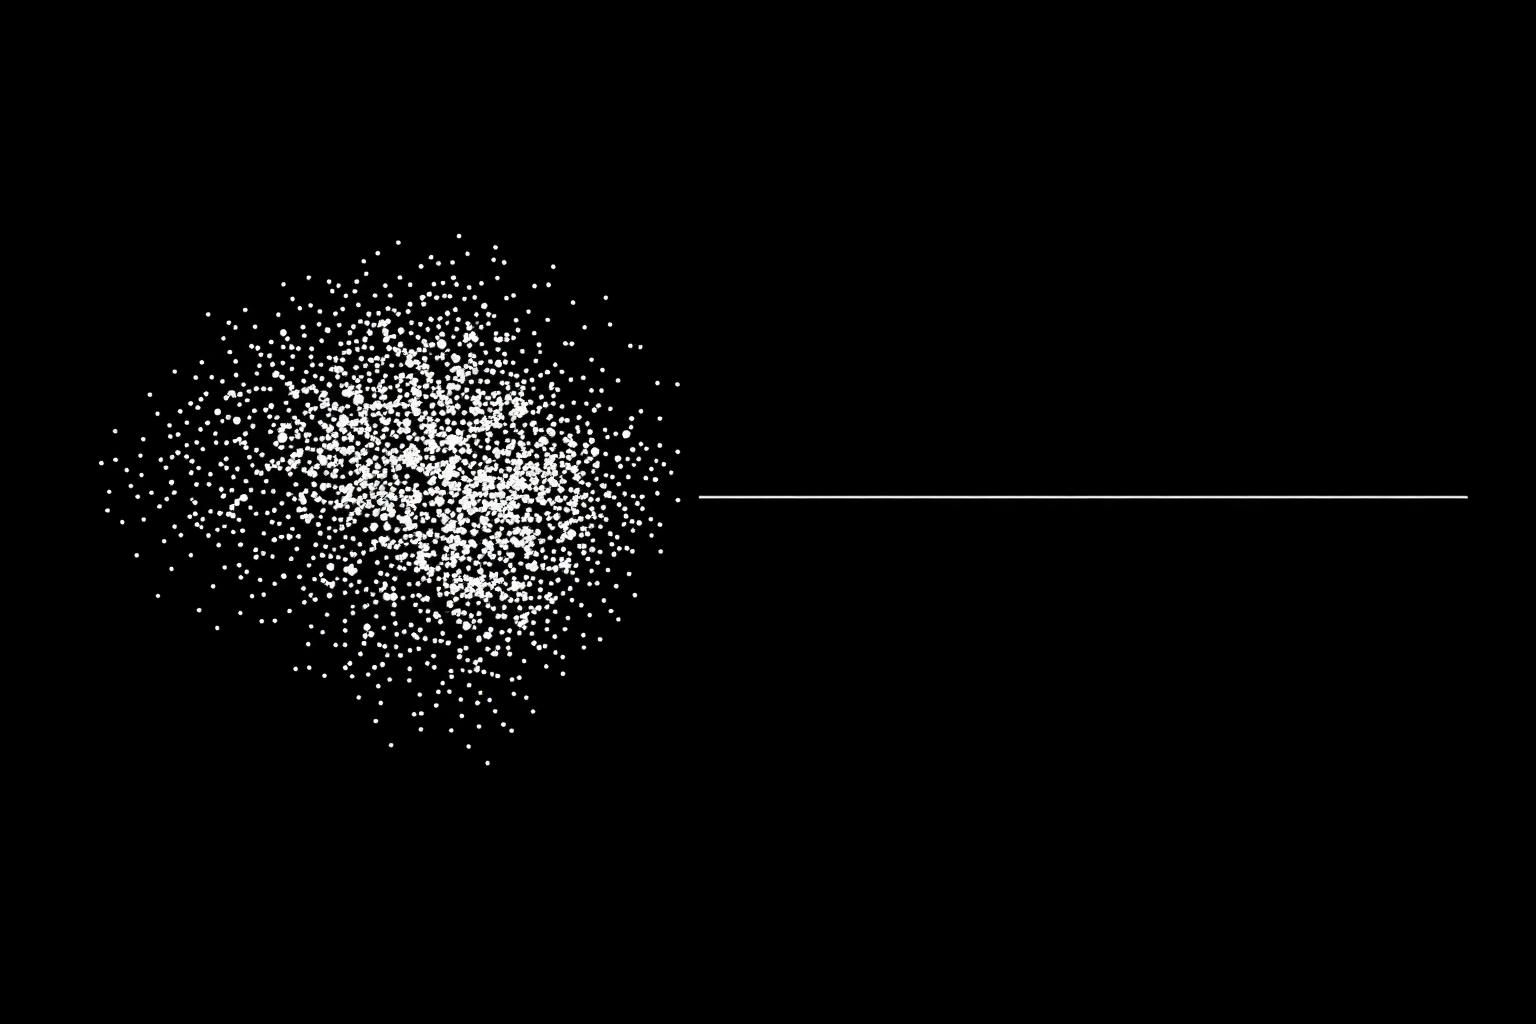
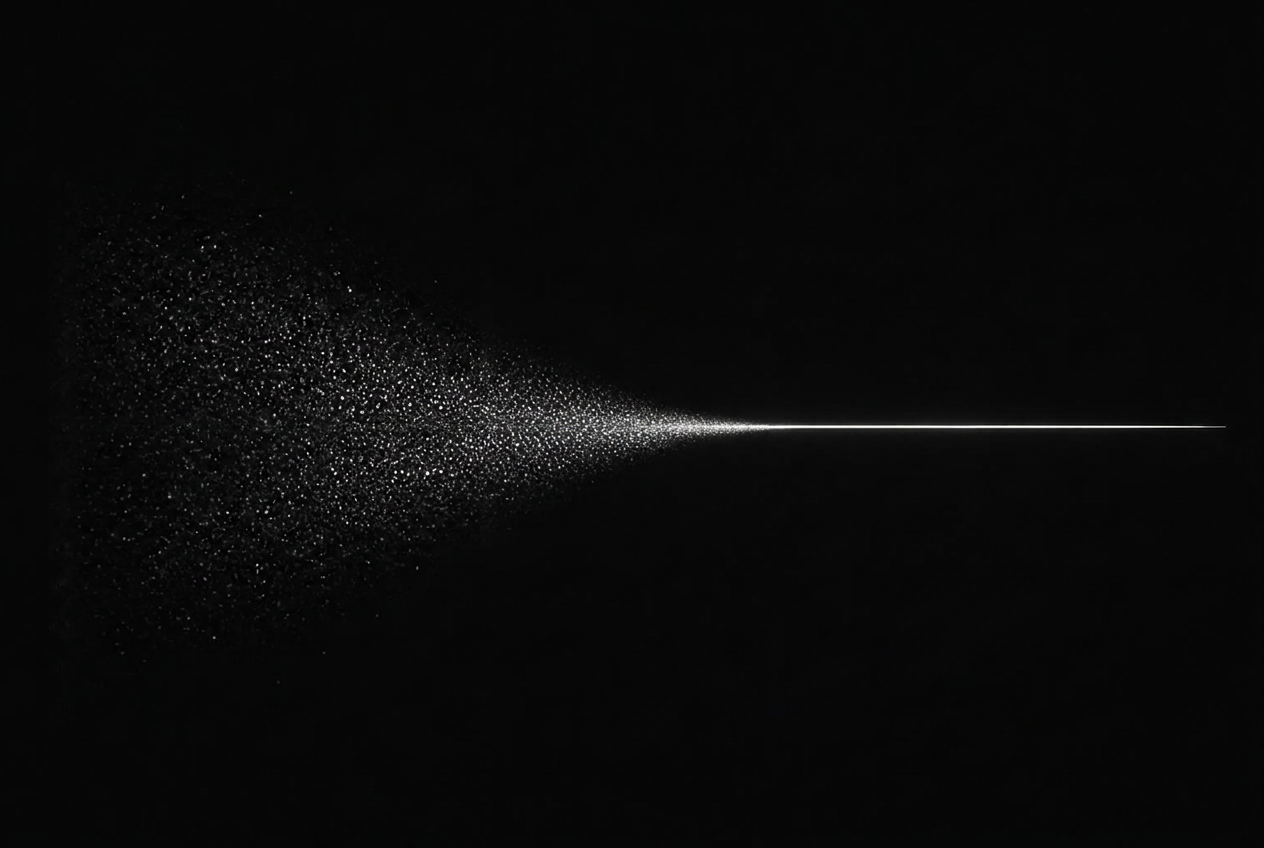
Reverted to commit 2d46d138d043dade0075078fa967075650693767

Changed region(s): [[0.0926, 0.2453, 0.9565, 0.6745]]

diff --git a/src/routes/index.tsx b/src/routes/index.tsx
@@ -4,10 +4,8 @@ import { Wordmark, Starfield, Trajectory } from "@/components/site/brand";
 import { ApproachRail } from "@/components/site/approach-rail";
 import heroField from "@/assets/hero-field.jpg";
 import evidenceResolve from "@/assets/evidence-resolve.jpg";
-import futuresBranch from "@/assets/futures-branch.jpg";
-import killLine from "@/assets/kill-line.jpg";
-import railConverge from "@/assets/rail-converge.jpg";
-
+import futuresCone from "@/assets/futures-cone.jpg";
+import sprintDecision from "@/assets/sprint-decision.jpg";
 
 export const Route = createFileRoute("/")({
   head: () => ({
@@ -201,11 +199,11 @@ function Index() {
             opinion.
           </p>
           <CinematicFigure
-            src={futuresBranch}
-            alt="Abstract diagram: thin lines branching repeatedly from a single point into many endpoints"
+            src={futuresCone}
+            alt="Abstract diagram: a wireframe cone of possible outcomes widening from a single point"
             caption="One idea → many possible futures"
             meta="Uncertainty at the start"
-            phrase="Every idea branches. Building is how most teams find out which branch they were on."
+            phrase="Every roadmap starts as a wide cone of futures. Building is how most teams find out which one they were in."
           >
             <div className="grid gap-14 md:grid-cols-12">
               <div className="md:col-span-6">
@@ -256,38 +254,16 @@ function Index() {
             readable either way. Those stopping points are what we call kill-lines.
           </p>
 
-          <CinematicFigure
-            src={killLine}
-            alt="Abstract chart: a single bright horizontal line with a dense cluster of points below it and a few isolated points above"
-            caption="Set before the evidence arrives"
-            meta="Kill-lines"
-            phrase="A kill-line is a threshold you agree on before you look, so the result is readable either way."
-          />
-
-          <div className="relative">
-            <img
-              src={railConverge}
-              alt=""
-              aria-hidden="true"
-              loading="lazy"
-              width={1920}
-              height={640}
-              className="pointer-events-none absolute inset-x-0 top-1/2 -translate-y-1/2 w-full opacity-[0.14]"
-            />
-            <div className="relative">
-              <ApproachRail steps={steps} />
-            </div>
-          </div>
+          <ApproachRail steps={steps} />
 
           <CinematicFigure
             src={evidenceResolve}
-            alt="Abstract diagram: a dense scatter of points on the left resolving into a single clean line on the right"
+            alt="Abstract diagram: scattered noise on the left resolving into a single clean signal line on the right"
             caption="Noise → signal"
-            meta="Evidence, not opinion"
-            phrase="Most of what a team believes is noise. The work is resolving the little of it that is signal."
+            meta="Evidence synthesis"
+            phrase="Name what must be true, then test it until the noise resolves into one line."
           />
         </Section>
-
 
 
 
@@ -297,8 +273,13 @@ function Index() {
             A fixed-scope sprint that ends in a call.
           </h2>
 
-          <div>
-
+          <CinematicFigure
+            src={sprintDecision}
+            alt="Abstract diagram: four converging rails of evidence leading into a single bright decision diamond"
+            caption="Converge on one decision"
+            meta="Flagship offering"
+            phrase="Four evidence rails converge on one decision. You leave with one recommendation."
+          >
             <div className="grid gap-14 md:grid-cols-12">
               <div className="md:col-span-8">
                 <p className="max-w-3xl text-lg leading-relaxed text-muted-foreground">
@@ -356,8 +337,7 @@ function Index() {
                 </ul>
               </div>
             </div>
-          </div>
-
+          </CinematicFigure>
         </Section>
 
         {/* Pull quote */}
